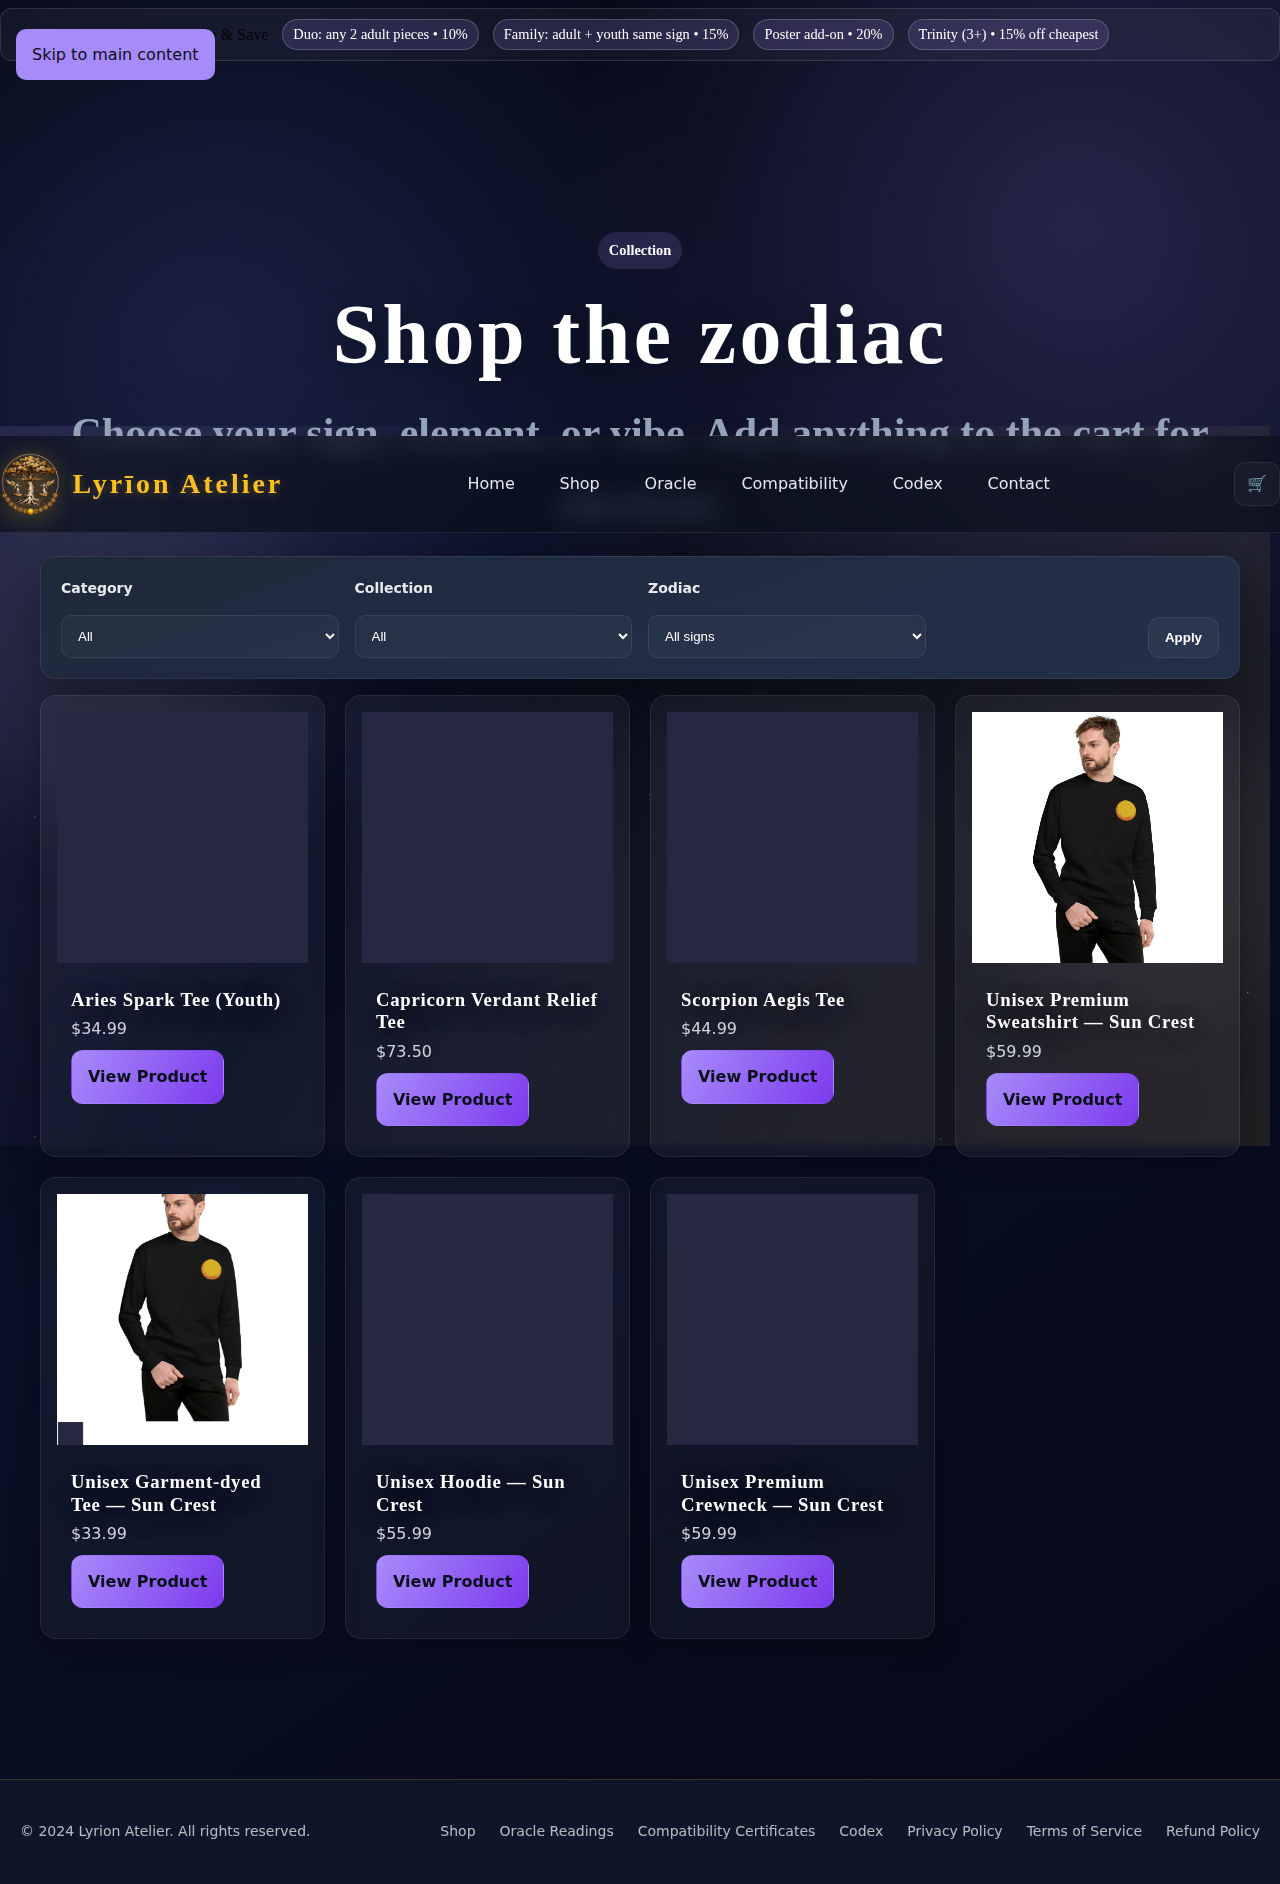
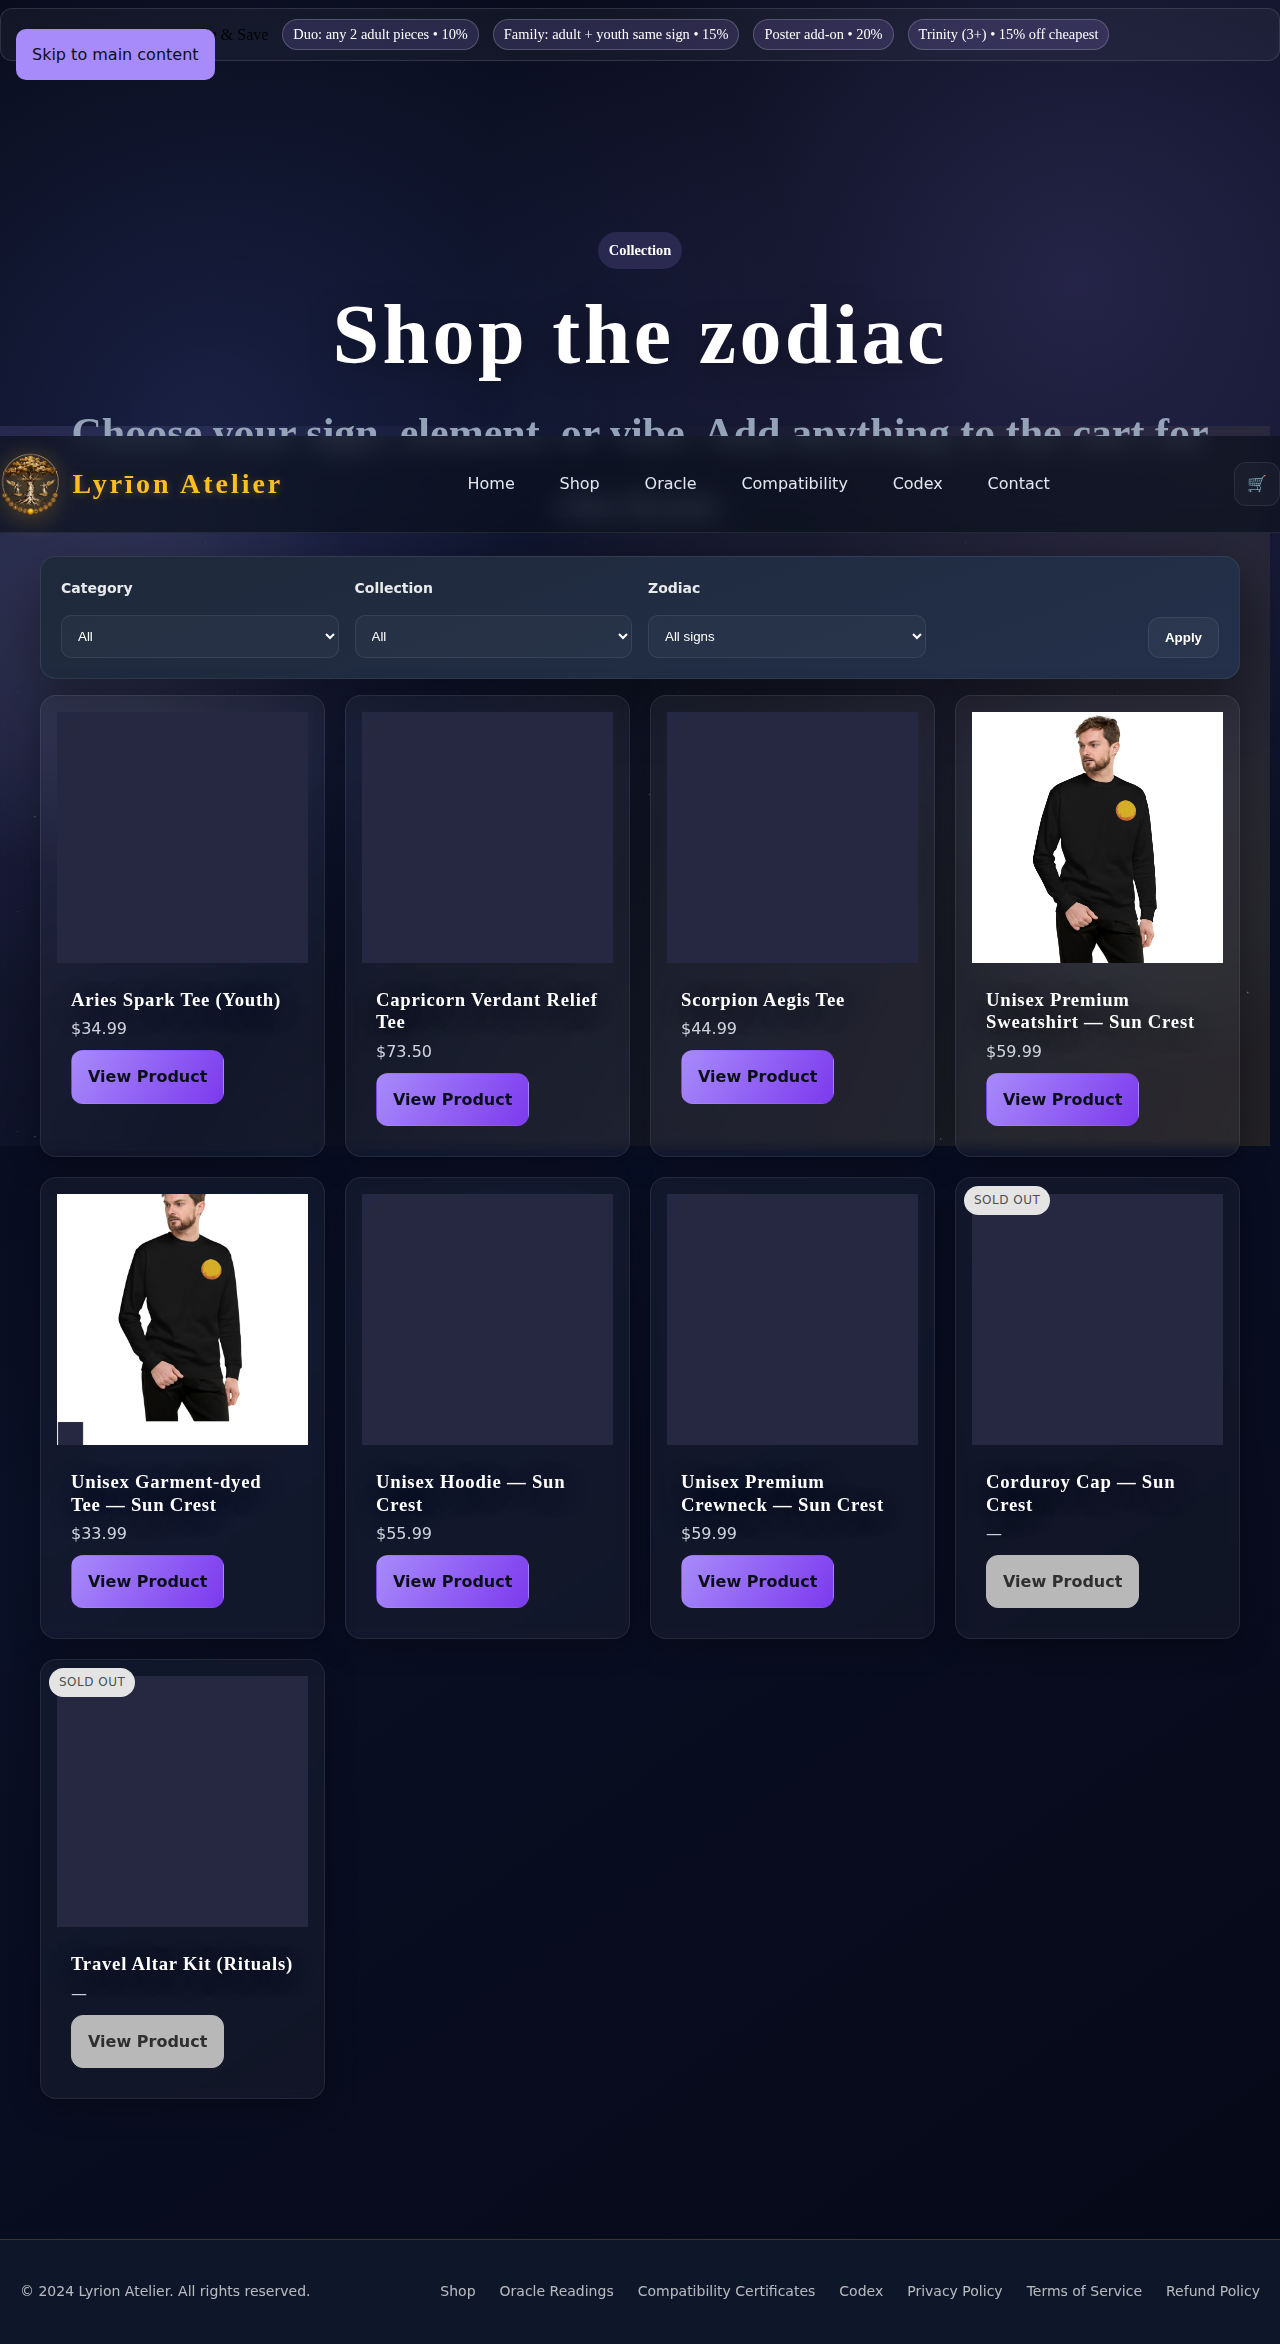
feat: add product taxonomy filters and sold-out handling

diff --git a/js/shop-page.js b/js/shop-page.js
@@ -15,6 +15,9 @@ import { formatPrice, currencySymbol } from './price-utils.js';
   // Values above this threshold are treated as cents and converted to dollars.
   const PRICE_CENTS_THRESHOLD = 200;
   const ZODIAC_SIGNS = ['aries', 'taurus', 'gemini', 'cancer', 'leo', 'virgo', 'libra', 'scorpio', 'sagittarius', 'capricorn', 'aquarius', 'pisces'];
+  const ZODIAC_ORDER = ZODIAC_SIGNS.map((z) => z.charAt(0).toUpperCase() + z.slice(1));
+  const CATEGORY_ORDER = ['Men', 'Women', 'Unisex', 'Youth', 'Accessories', 'Rituals'];
+  const COLLECTION_ORDER = ['Zodiac', 'Lyrion Atelier Core'];
   const fadeMs = 240;
   let loaderHideTimer = null;
   let loaderVisible = !!loader;
@@ -54,6 +57,12 @@ import { formatPrice, currencySymbol } from './price-utils.js';
 
   const stripDebug = () => {
     document.querySelectorAll('#asset-strip, .debug-thumbs, .thumb-strip, .stray-thumb, #sign-gallery, .sign-strip').forEach(el => el.remove());
+  };
+
+  const toList = (value) => {
+    if (Array.isArray(value)) return value;
+    if (value === null || typeof value === 'undefined') return [];
+    return [value];
   };
 
   async function getImageMap(){
@@ -197,6 +206,17 @@ import { formatPrice, currencySymbol } from './price-utils.js';
     const variantPrice = normalizePrice(variant);
     const fallbackPrice = normalizePrice(p);
     const price = variantPrice?.cents !== null ? variantPrice : fallbackPrice;
+    const firstValue = (val) => {
+      if (Array.isArray(val)) return val[0];
+      return val;
+    };
+    const resolveCollection = () => firstValue(p?.meta?.collection) || firstValue(p.collection) || '';
+    const meta = {
+      category: p?.meta?.category || p.category || p.product_type || p.department || '',
+      collection: resolveCollection(),
+      zodiac: p?.meta?.zodiac || p.zodiac || p.attributes?.zodiac || '',
+      soldOut: p?.meta?.soldOut ?? p.soldOut ?? false
+    };
     const firstVariantId =
       p.defaultVariant?.id ||
       p.defaultVariantId ||
@@ -221,8 +241,10 @@ import { formatPrice, currencySymbol } from './price-utils.js';
       canBuy,
       firstVariantId,
       image,
-      category: p.category || p.product_type || p.department || '',
-      zodiac: p.zodiac || p.attributes?.zodiac || ''
+      category: meta.category,
+      zodiac: meta.zodiac,
+      meta,
+      soldOut: meta.soldOut
     };
   };
 
@@ -314,11 +336,16 @@ import { formatPrice, currencySymbol } from './price-utils.js';
     const primaryImage = Array.isArray(p.images) ? p.images[0] : null;
     const resolvedImage = isUsableImage(primaryImage) ? primaryImage : resolveProductImage(p, cachedImageMap, cachedZodiacMap);
     const imgSrc = isUsableImage(resolvedImage) ? resolvedImage : FALLBACK;
+    const soldOut = (p?.meta?.soldOut ?? p?.soldOut) === true;
 
     const card = document.createElement('article');
     card.className = 'product-card';
     card.dataset.id = p.id || slug;
     card.dataset.slug = slug;
+    if (soldOut) {
+      card.classList.add('product-card--sold-out');
+      card.dataset.soldOut = 'true';
+    }
 
     const media = document.createElement('div');
     media.className = 'product-card__media media';
@@ -354,12 +381,25 @@ import { formatPrice, currencySymbol } from './price-utils.js';
     buyBtn.dataset.action = 'view';
     buyBtn.dataset.slug = slug;
     buyBtn.dataset.name = p.title || p.name || 'Celestial Piece';
+    if (soldOut) {
+      buyBtn.classList.add('is-disabled');
+      buyBtn.setAttribute('aria-disabled', 'true');
+      buyBtn.href = '#';
+      buyBtn.addEventListener('click', (e) => e.preventDefault());
+    }
 
     actions.append(buyBtn);
     body.append(heading, priceEl, actions);
+    if (soldOut) {
+      const ribbon = document.createElement('span');
+      ribbon.className = 'product-card__ribbon product-card__ribbon--sold-out';
+      ribbon.textContent = 'Sold out';
+      card.append(ribbon);
+    }
     card.append(media, body);
     card.addEventListener('click', (e) => {
       if (e.target.closest('.product-buy-btn')) return;
+      if (soldOut) return;
       window.location.href = viewUrl;
     });
     return card;
@@ -388,6 +428,61 @@ import { formatPrice, currencySymbol } from './price-utils.js';
       window.resolveProductImage = resolveProductImage;
       window.pickVariant = pickVariant;
     }
+  };
+
+  const normalizeLabel = (val) => {
+    if (typeof val === 'string') return val.trim();
+    return String(val || '').trim();
+  };
+  const dedupeOrdered = (preferred = [], values = []) => {
+    const seen = new Set();
+    const result = [];
+    const add = (val) => {
+      const label = normalizeLabel(val);
+      if (!label) return;
+      const key = label.toLowerCase();
+      if (seen.has(key)) return;
+      seen.add(key);
+      result.push(label);
+    };
+    preferred.forEach(add);
+    values.forEach(add);
+    return result;
+  };
+  const setOptions = (select, values, allLabel = 'All', allValue = 'all') => {
+    if (!select) return;
+    const previous = select.value || allValue;
+    select.innerHTML = '';
+    const addOpt = (value, label) => {
+      const opt = document.createElement('option');
+      opt.value = value;
+      opt.textContent = label;
+      select.appendChild(opt);
+    };
+    addOpt(allValue, allLabel);
+    values.forEach((val) => addOpt(val, val));
+    const match = values.find((val) => val.toLowerCase() === (previous || '').toLowerCase());
+    select.value = match || allValue;
+  };
+
+  const populateFilterOptions = (catalog = []) => {
+    const categoryValues = dedupeOrdered(
+      CATEGORY_ORDER,
+      catalog.map((p = {}) => p?.meta?.category || p?.category).filter(Boolean)
+    );
+    const collectionValues = dedupeOrdered(
+      COLLECTION_ORDER,
+      catalog.flatMap((p = {}) => toList(p?.meta?.collection || p?.collection)).filter(Boolean)
+    );
+    const zodiacValues = dedupeOrdered(
+      ZODIAC_ORDER,
+      catalog
+        .map((p = {}) => p?.meta?.zodiac || p?.zodiac)
+        .filter((z) => z && z.toLowerCase() !== 'none')
+    );
+    setOptions(document.getElementById('filter-category'), categoryValues, 'All');
+    setOptions(document.getElementById('filter-collection'), collectionValues, 'All');
+    setOptions(document.getElementById('filter-zodiac'), zodiacValues, 'All signs');
   };
 
   const syncFilterInputs = () => {
@@ -455,6 +550,7 @@ import { formatPrice, currencySymbol } from './price-utils.js';
       };
       const remoteCount = normalized.filter(hasRemote).length;
       console.log(`[shop] products with remote images: ${remoteCount} / total: ${normalized.length}`);
+      populateFilterOptions(normalized);
       syncFilterInputs();
       bindFilters();
       if (!normalized.length) { renderEmpty(); }

diff --git a/js/shop-filters.js b/js/shop-filters.js
@@ -1,3 +1,11 @@
+/**
+ * @typedef {"Men" | "Women" | "Unisex" | "Youth"} Audience
+ * @typedef {Audience | "Accessories" | "Rituals"} Category
+ * @typedef {"Zodiac" | "Lyrion Atelier Core"} Collection
+ * @typedef {"Aries" | "Taurus" | "Gemini" | "Cancer" | "Leo" | "Virgo" | "Libra" | "Scorpio" | "Sagittarius" | "Capricorn" | "Aquarius" | "Pisces" | "None"} Zodiac
+ * @typedef {{ category: Category, collection: Collection, zodiac: Zodiac, soldOut?: boolean }} ProductMeta
+ */
+
 const defaultState = {
   category: 'all',
   zodiac: 'all',
@@ -11,12 +19,15 @@ const defaultState = {
 export function apply(products, incomingState) {
   try {
     const list = Array.isArray(products) ? products : [];
+    const isSoldOut = (p = {}) => (p?.meta?.soldOut ?? p?.soldOut) === true;
     const savedState = typeof window !== 'undefined' ? window.LyrionAtelier?.shopState : undefined;
     let state = { ...defaultState, ...(savedState || {}) };
     if (incomingState && typeof incomingState === 'object') {
       state = { ...state, ...incomingState };
     }
-    if (!list.length) return list;
+    const includeSoldOut = state.includeSoldOut ?? list.some(isSoldOut);
+    const baseList = includeSoldOut ? list : list.filter((p = {}) => !isSoldOut(p));
+    if (!baseList.length) return baseList;
 
     const category = String(state.category || 'all').toLowerCase();
     const zodiac = String(state.zodiac || 'all').toLowerCase();
@@ -32,20 +43,21 @@ export function apply(products, incomingState) {
       return String(value).split(',').map((v) => v.trim()).filter(Boolean);
     };
 
-    const filtered = list.filter((p = {}) => {
+    const filtered = baseList.filter((p = {}) => {
       const published = p?.state?.published ?? true;
       const ready = p?.state?.ready ?? true;
       if (!published || !ready) return false;
 
-      const productCategories = toList(p?.category || p?.metadata?.category).map(normalize);
+      const meta = p?.meta || {};
+      const productCategories = toList(meta.category || p?.category || p?.metadata?.category).map(normalize);
       const categoryMatch =
         category === 'all' ||
         productCategories.includes(category) ||
         productCategories.map((c) => (c.endsWith('s') ? c.slice(0, -1) : c)).includes(category);
-      const productZodiac = normalize(p?.zodiac || p?.metadata?.zodiac || 'all') || 'all';
+      const productZodiac = normalize(meta.zodiac || p?.zodiac || p?.metadata?.zodiac || 'all') || 'all';
       const productPalettes = toList(p?.palette || p?.metadata?.palette).map(normalize);
       const productCollections = [
-        ...toList(p?.collection),
+        ...toList(meta.collection || p?.collection),
         ...toList(p?.metadata?.collection)
       ].map(normalize);
       const productSizes = [

diff --git a/tests/shop.spec.ts b/tests/shop.spec.ts
@@ -149,6 +149,8 @@ test.describe('shop smoke test', () => {
     await expect(scorpionPrice).toHaveText(/\$44\.99/);
     const hoodiePrice = page.locator('[data-slug="unisex-hoodie-sun-crest"] .product-card__price');
     await expect(hoodiePrice).toHaveText(/\$55\.99/);
+    const soldOutBadges = page.locator('.product-card--sold-out .product-card__ribbon', { hasText: /sold out/i });
+    await expect(soldOutBadges.first()).toBeVisible();
 
     const relevantErrors = consoleErrors.filter((msg) => !/ERR_NAME_NOT_RESOLVED/i.test(msg));
     expect(relevantErrors).toEqual([]);
@@ -167,8 +169,15 @@ test.describe('shop smoke test', () => {
 
     await page.goto(`http://localhost:${PORT}/shop`, { waitUntil: 'networkidle' });
     await page.waitForSelector('.product-card');
-    await page.selectOption('#filter-collection', 'lyrion-atelier');
-    const allowedSlugs = ['lyrion-premium-sweatshirt', 'unisex-hoodie-sun-crest', 'unisex-tee-sun-crest', 'premium-crewneck-sun-crest'];
+    await page.selectOption('#filter-collection', 'Lyrion Atelier Core');
+    const allowedSlugs = [
+      'lyrion-premium-sweatshirt',
+      'unisex-hoodie-sun-crest',
+      'unisex-tee-sun-crest',
+      'premium-crewneck-sun-crest',
+      'corduroy-cap-sun-crest',
+      'travel-altar-kit-rituals'
+    ];
     await page.waitForFunction(
       (slugs) => {
         const cards = Array.from(document.querySelectorAll('.product-card'));

diff --git a/css/shop-fixes.css b/css/shop-fixes.css
@@ -3,3 +3,19 @@
 
 /* optional: center empty note */
 .shop-empty-note { color: #cfd8ff; text-align:center; }
+
+.product-card { position: relative; }
+.product-card__ribbon {
+  position: absolute;
+  top: 8px;
+  left: 8px;
+  background: #e4e4e4;
+  color: #4f4f4f;
+  padding: 4px 10px;
+  border-radius: 999px;
+  font-size: 12px;
+  letter-spacing: 0.04em;
+  text-transform: uppercase;
+}
+.product-card--sold-out .product-card__media img { opacity: 0.85; filter: grayscale(0.1); }
+.product-card--sold-out .product-buy-btn.is-disabled { pointer-events: none; background: #b8b8b8; border-color: #b8b8b8; color: #2f2f2f; }
